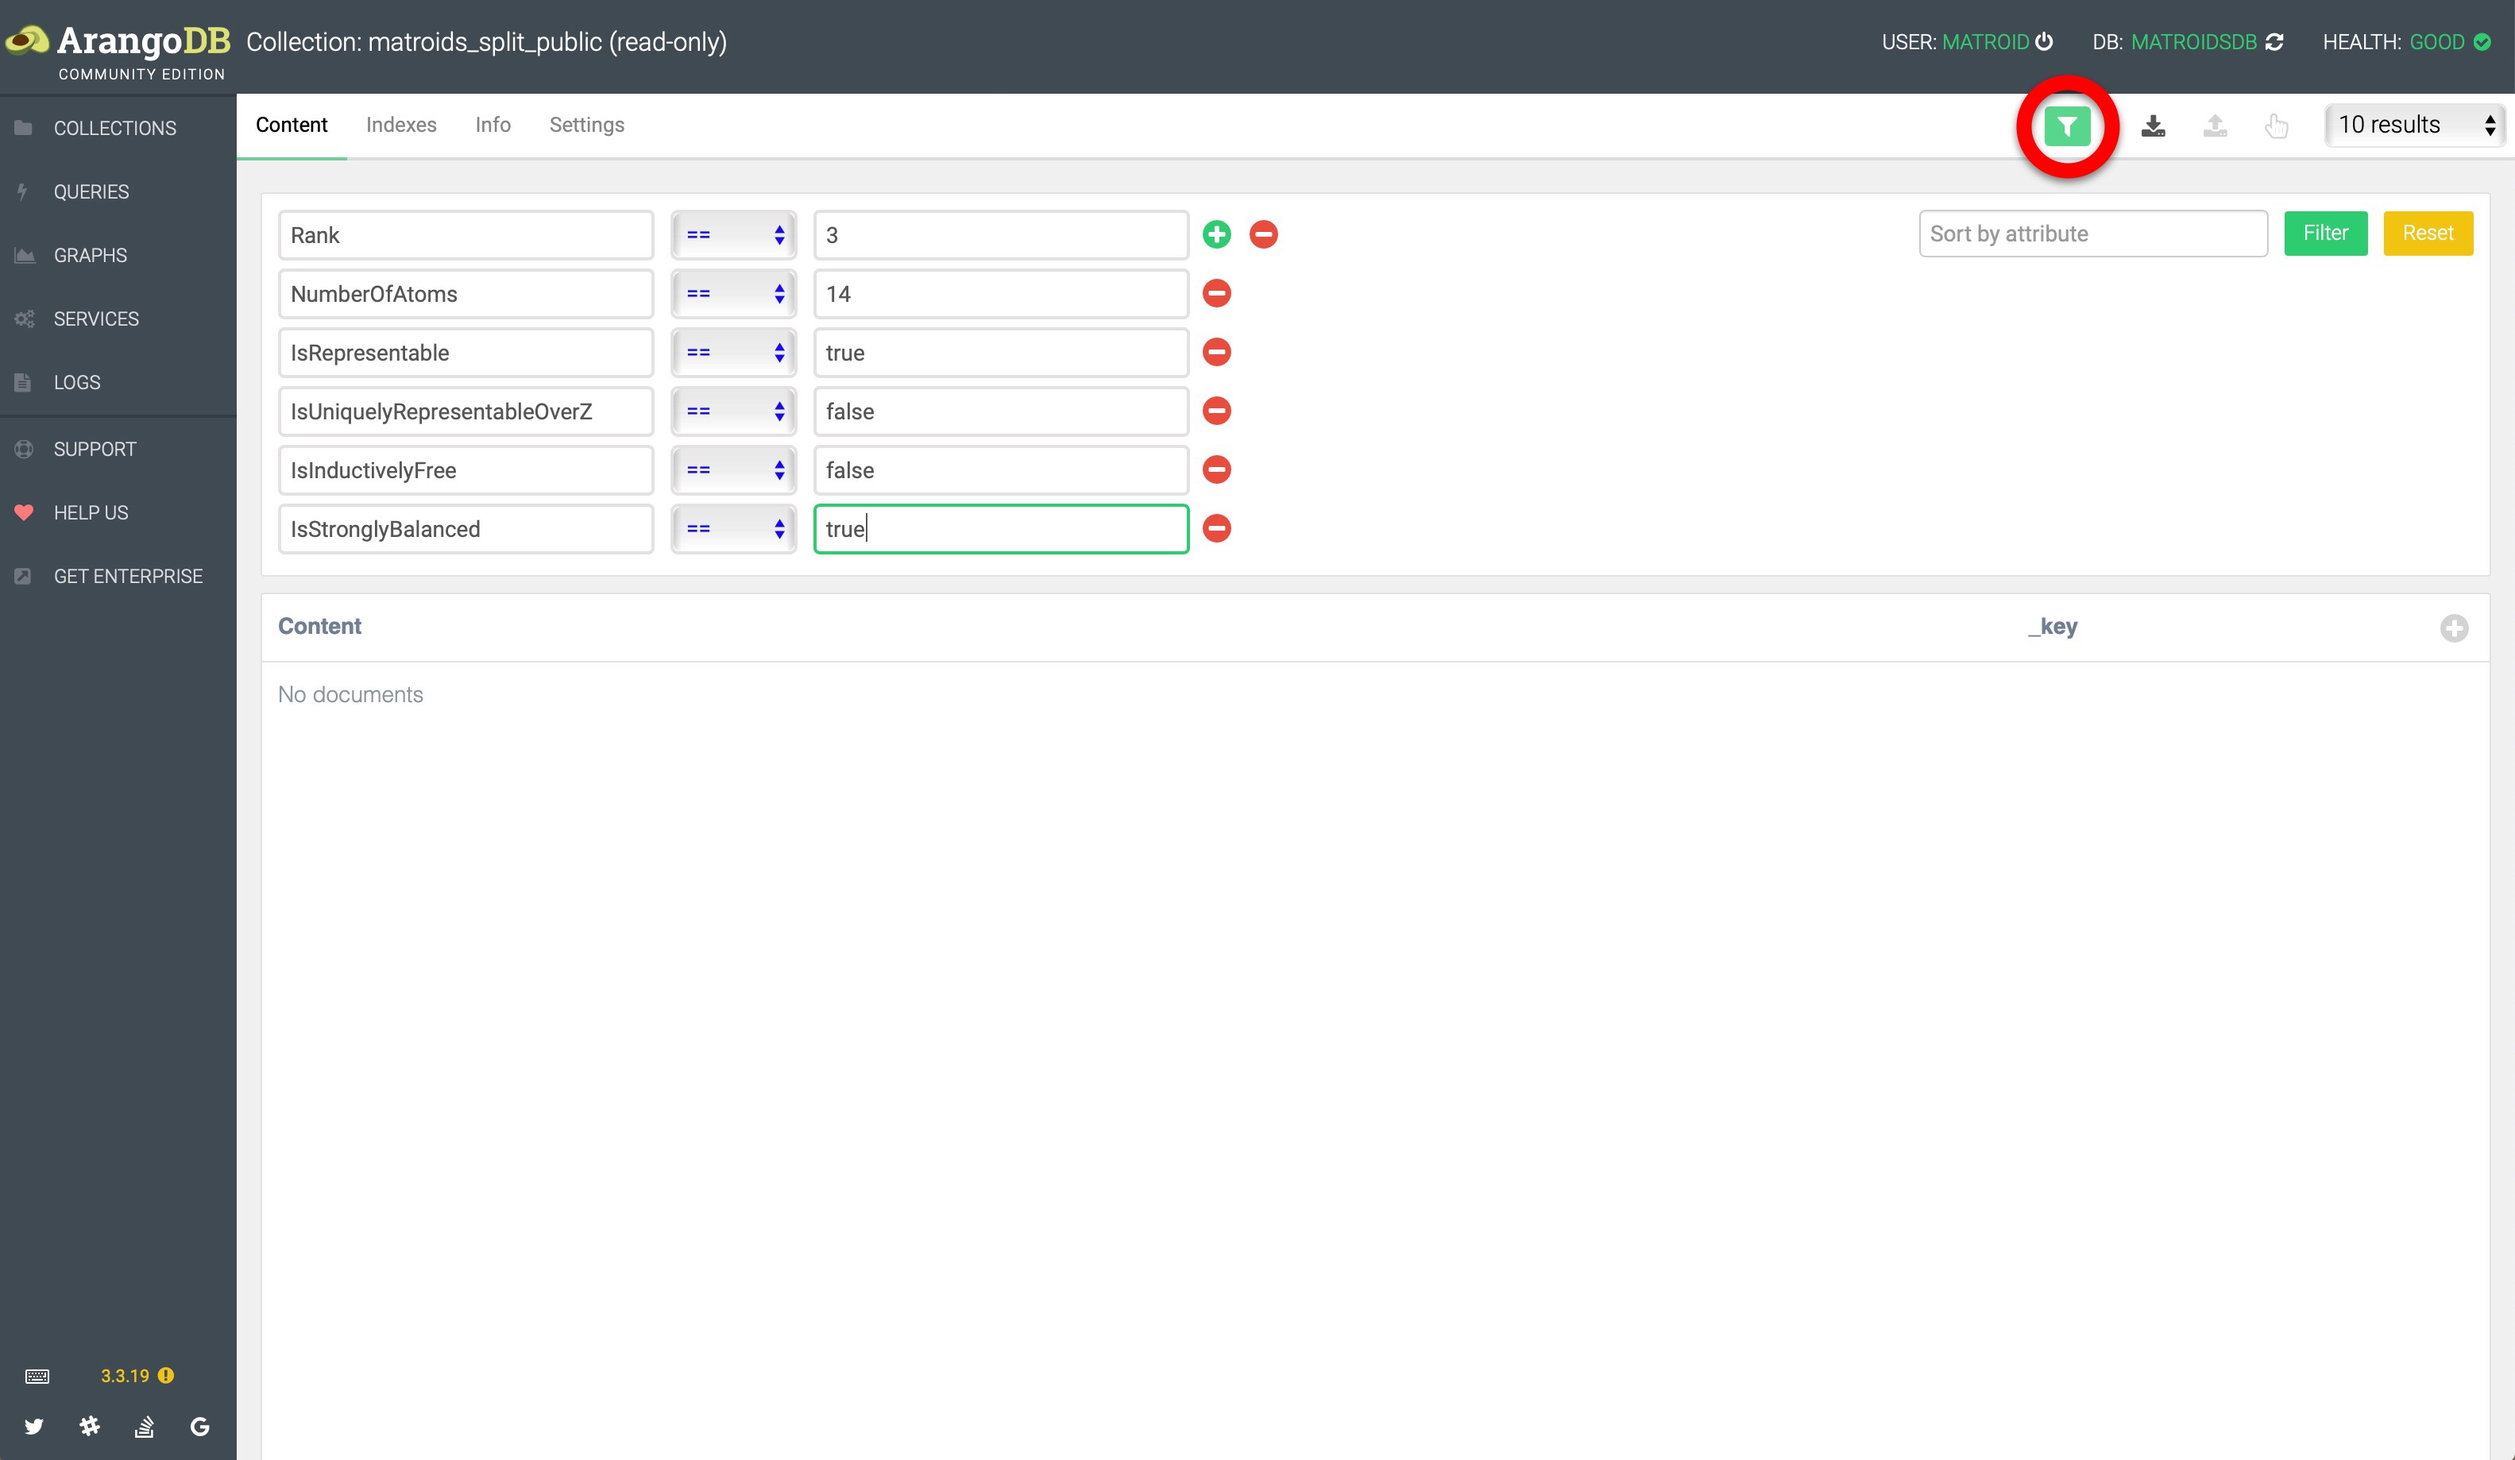
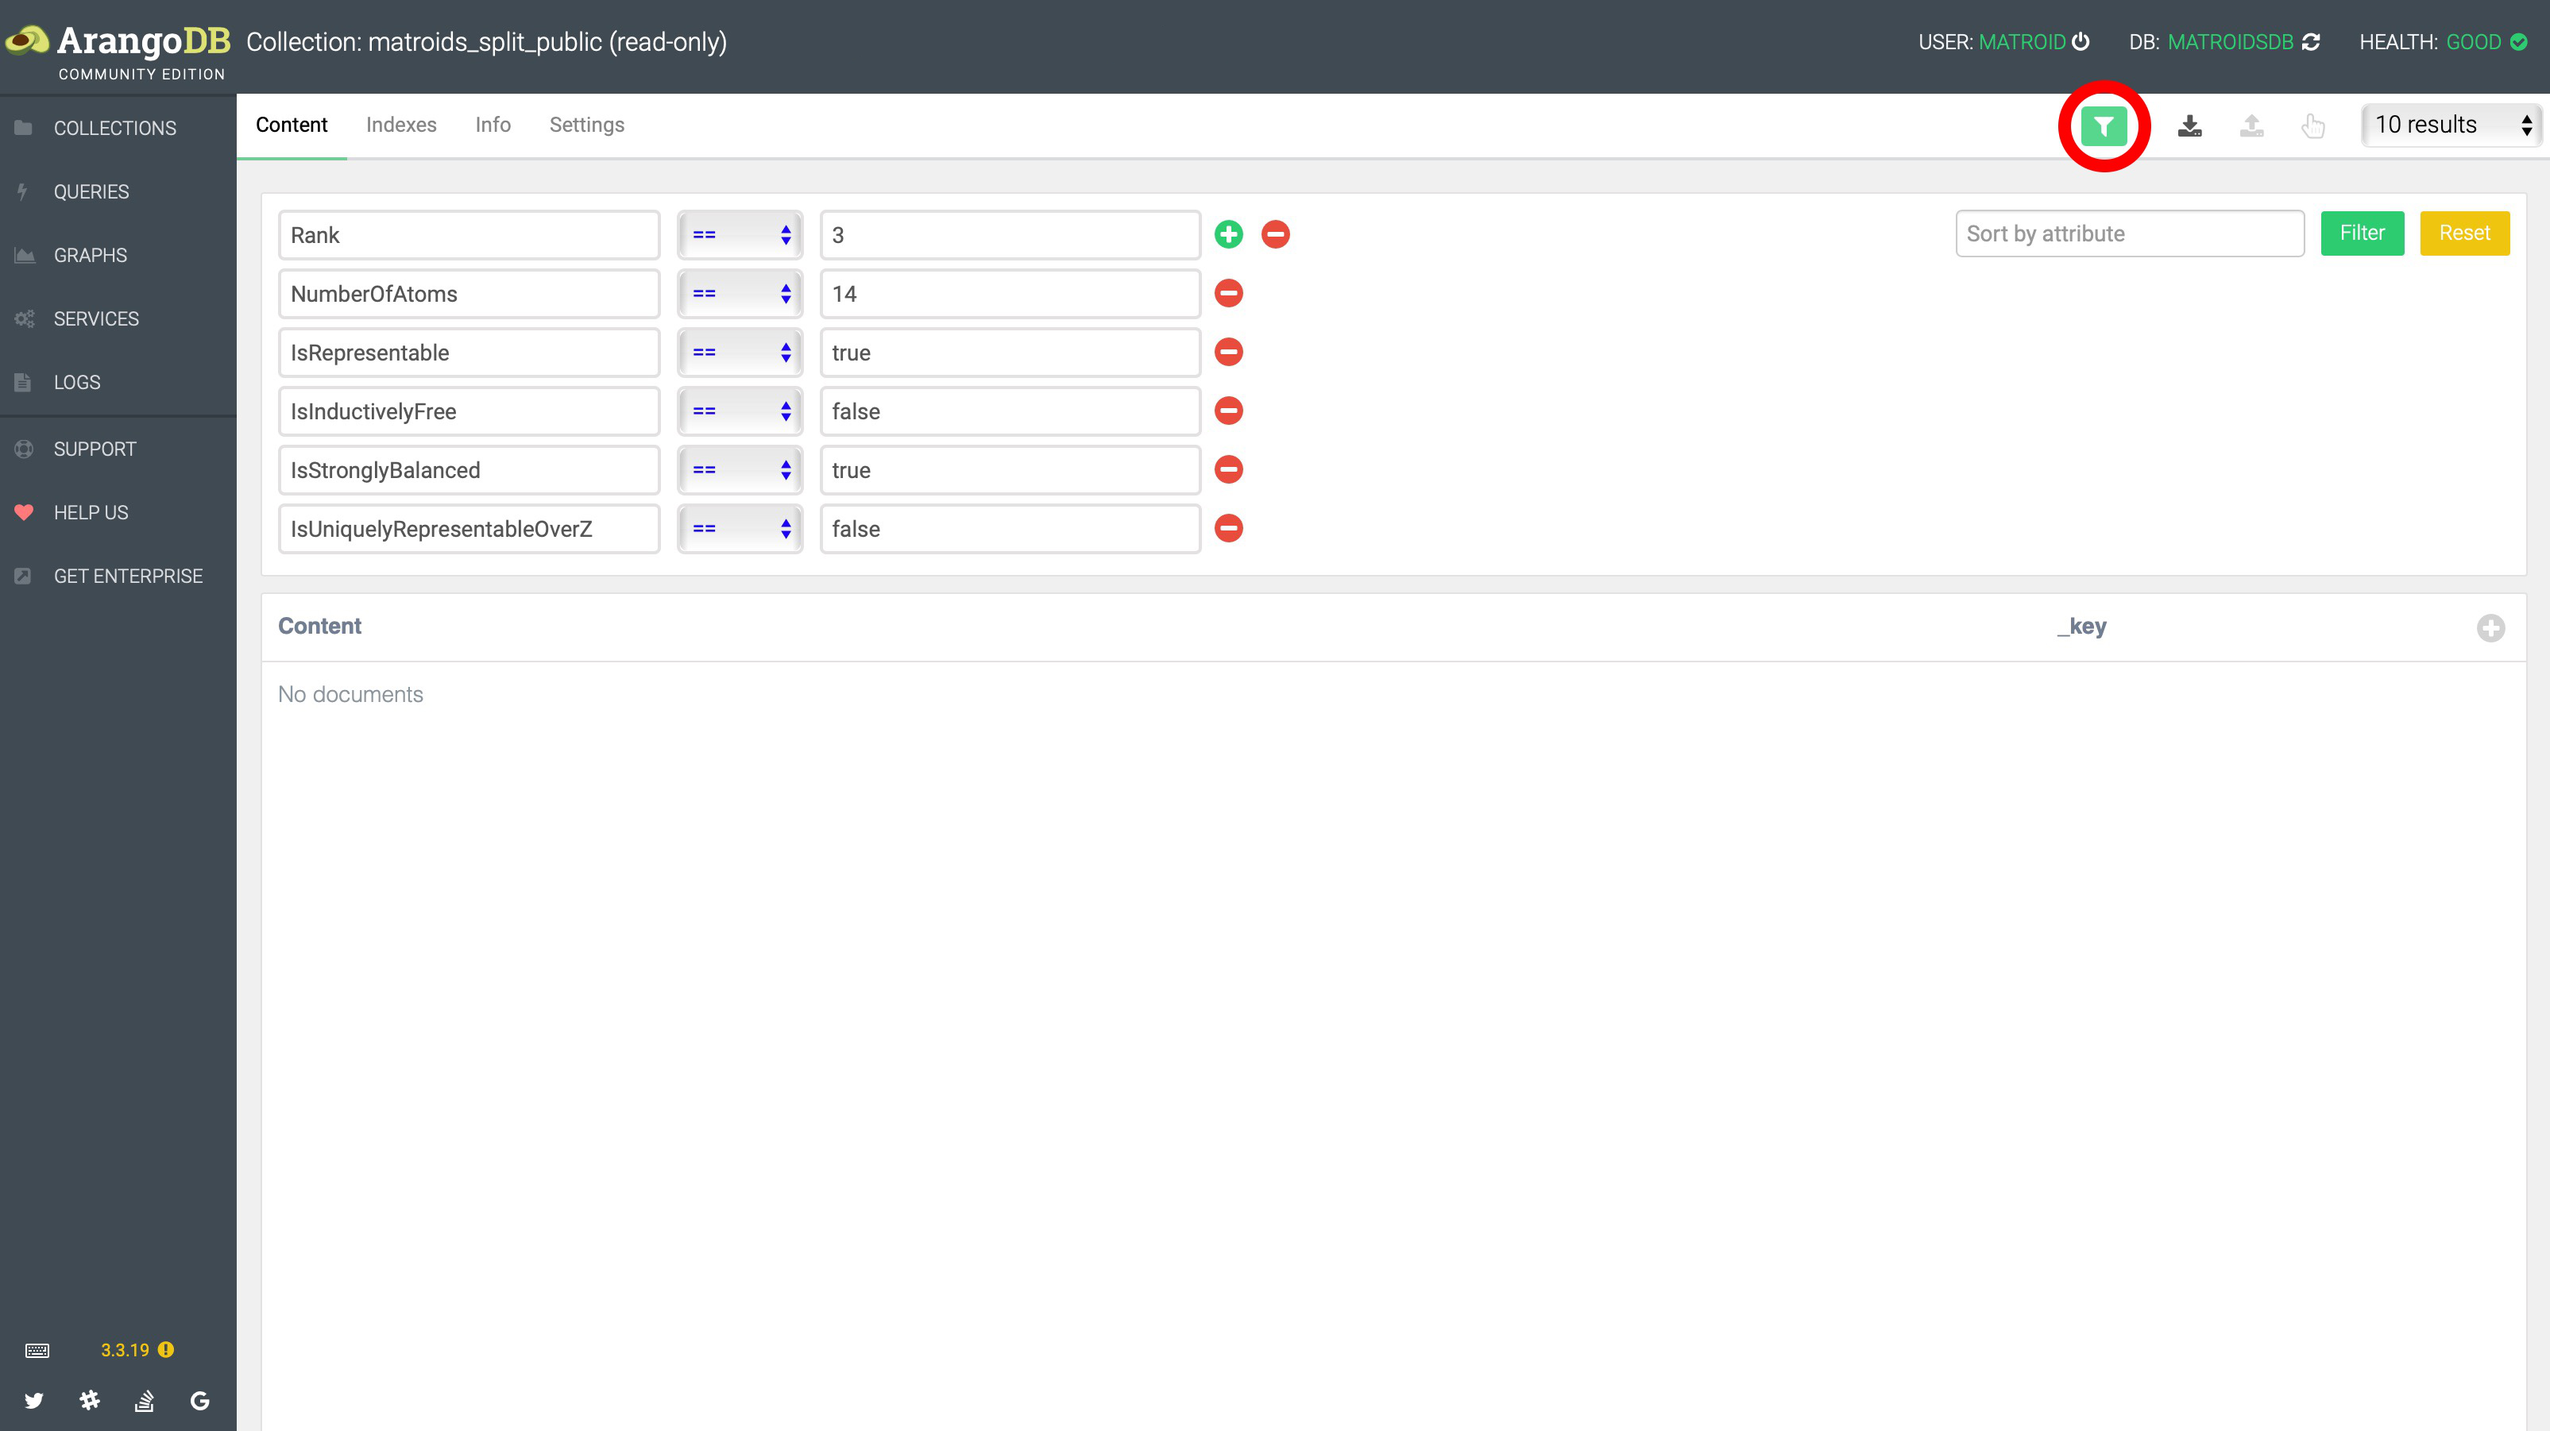
updated README.md

diff --git a/README.md b/README.md
@@ -45,7 +45,7 @@ The package can also be used to access the collection directly.
 ```gap
 gap> LoadPackage( "MatroidGeneration" );
 ────────────────────────────────────────────────────────────────────────────────────────────────────────────────────────────────────────────────────────────────────
-Loading  AutoDoc 2019.05.20 (Generate documentation from GAP source code)
+Loading  AutoDoc 2019.07.03 (Generate documentation from GAP source code)
 by Sebastian Gutsche (https://algebra.mathematik.uni-siegen.de/gutsche/) and
    Max Horn (https://www.quendi.de/math).
 Homepage: https://gap-packages.github.io/AutoDoc
@@ -81,7 +81,7 @@ by Christopher Jefferson (http://caj.host.cs.st-andrews.ac.uk/),
 Homepage: https://gap-packages.github.io/images/
 ────────────────────────────────────────────────────────────────────────────────────────────────────────────────────────────────────────────────────────────────────
 ────────────────────────────────────────────────────────────────────────────────────────────────────────────────────────────────────────────────────────────────────
-Loading  MatricesForHomalg 2019.06.03 (Lazy evaluated matrices with clever operations for the homalg project)
+Loading  MatricesForHomalg 2019.06.04 (Lazy evaluated matrices with clever operations for the homalg project)
 by Mohamed Barakat (https://mohamed-barakat.github.io),
    Markus Lange-Hegermann (https://www.hs-owl.de/fb5/fachbereich/fachgebiete/md/team/prof-dr-markus-lange-hegermann.html),
    Martin Leuner (http://wwwb.math.rwth-aachen.de/Mitarbeiter/leuner.php), and
@@ -142,7 +142,7 @@ by Martin Leuner (http://wwwb.math.rwth-aachen.de/~leuner/).
 Homepage: https://github.com/martin-leuner/alcove
 ────────────────────────────────────────────────────────────────────────────────────────────────────────────────────────────────────────────────────────────────────
 ────────────────────────────────────────────────────────────────────────────────────────────────────────────────────────────────────────────────────────────────────
-Loading  MatroidGeneration 2019.06.06 (Generate low-rank matroids)
+Loading  MatroidGeneration 2019.06.07 (Generate low-rank matroids)
 by Mohamed Barakat (https://mohamed-barakat.github.io) and
    Lukas Kühne (https://github.com/lukaskuehne).
 Homepage: https://homalg-project.github.io/MatroidGeneration
@@ -223,9 +223,9 @@ and enter the following filter values (which will be combined with the AND conne
 Rank == 3
 NumberOfAtoms == 14
 IsRepresentable == true
-IsUniquelyRepresentableOverZ == false
 IsInductivelyFree == false
 IsStronglyBalanced == true
+IsUniquelyRepresentableOverZ == false
 ```
 and then press ENTER. The result will be `No documents`.
 
@@ -242,9 +242,9 @@ FOR d IN matroids_split_public
   FILTER d.Rank == 3 &&
          d.NumberOfAtoms == 14 &&
          d.IsRepresentable == true &&
-         d.IsUniquelyRepresentableOverZ == false &&
          d.IsInductivelyFree == false &&
-	 d.IsStronglyBalanced == true
+         d.IsStronglyBalanced == true &&
+         d.IsUniquelyRepresentableOverZ == false
   SORT d.NumberOfAtoms, d.Characteristic, d.DimensionOverZ DESC
   RETURN { NumberOfAtoms : d.NumberOfAtoms,
            Characteristic: d.Characteristic,
@@ -267,14 +267,15 @@ FOR d IN matroids_split_public
 gap> LoadPackage( "MatroidGeneration" );
 true
 gap> db := AttachMatroidsDatabase();
+#I  Connecting to http+ssl://matroid.mathematik.uni-siegen.de:443
 [object ArangoDatabase "MatroidsDB"]
 gap> q := QueryDatabase( rec(
 >      	  Rank := 3,
 >      	  NumberOfAtoms := 14,
 >      	  IsRepresentable := true,
->	  IsUniquelyRepresentableOverZ := false,
 >	  IsInductivelyFree := false,
->	  IsStronglyBalanced := true ),
+>	  IsStronglyBalanced := true,
+>	  IsUniquelyRepresentableOverZ := false ),
 > db.matroids_split_public );
 [ArangoQueryCursor in [object ArangoDatabase "MatroidsDB"]]
 gap> q.count();
